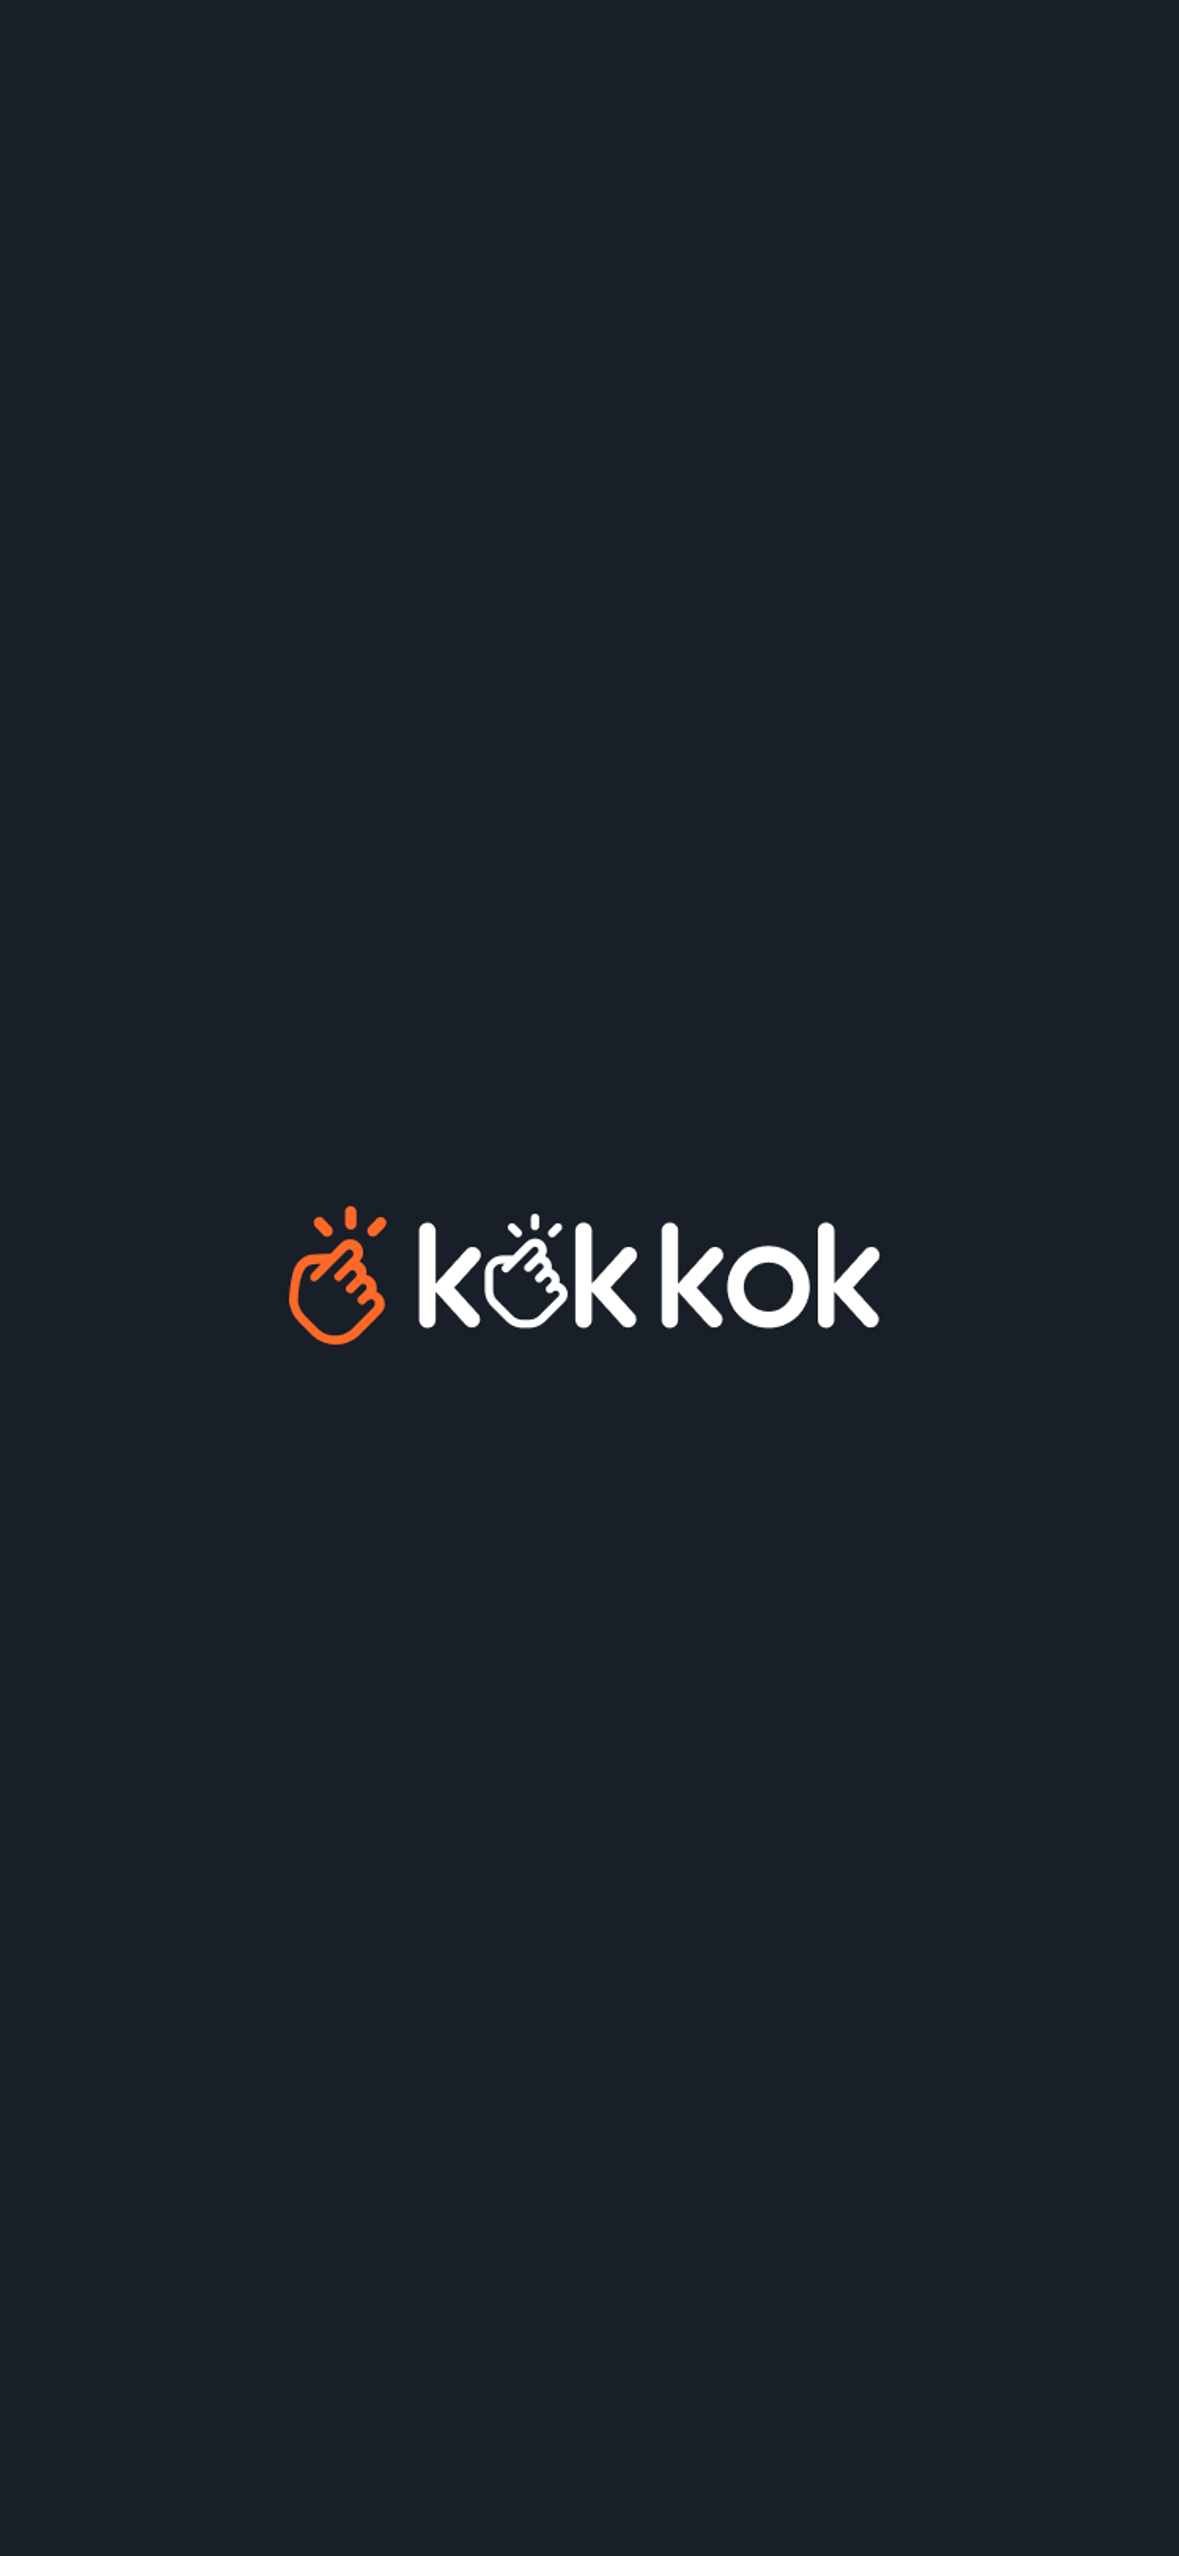
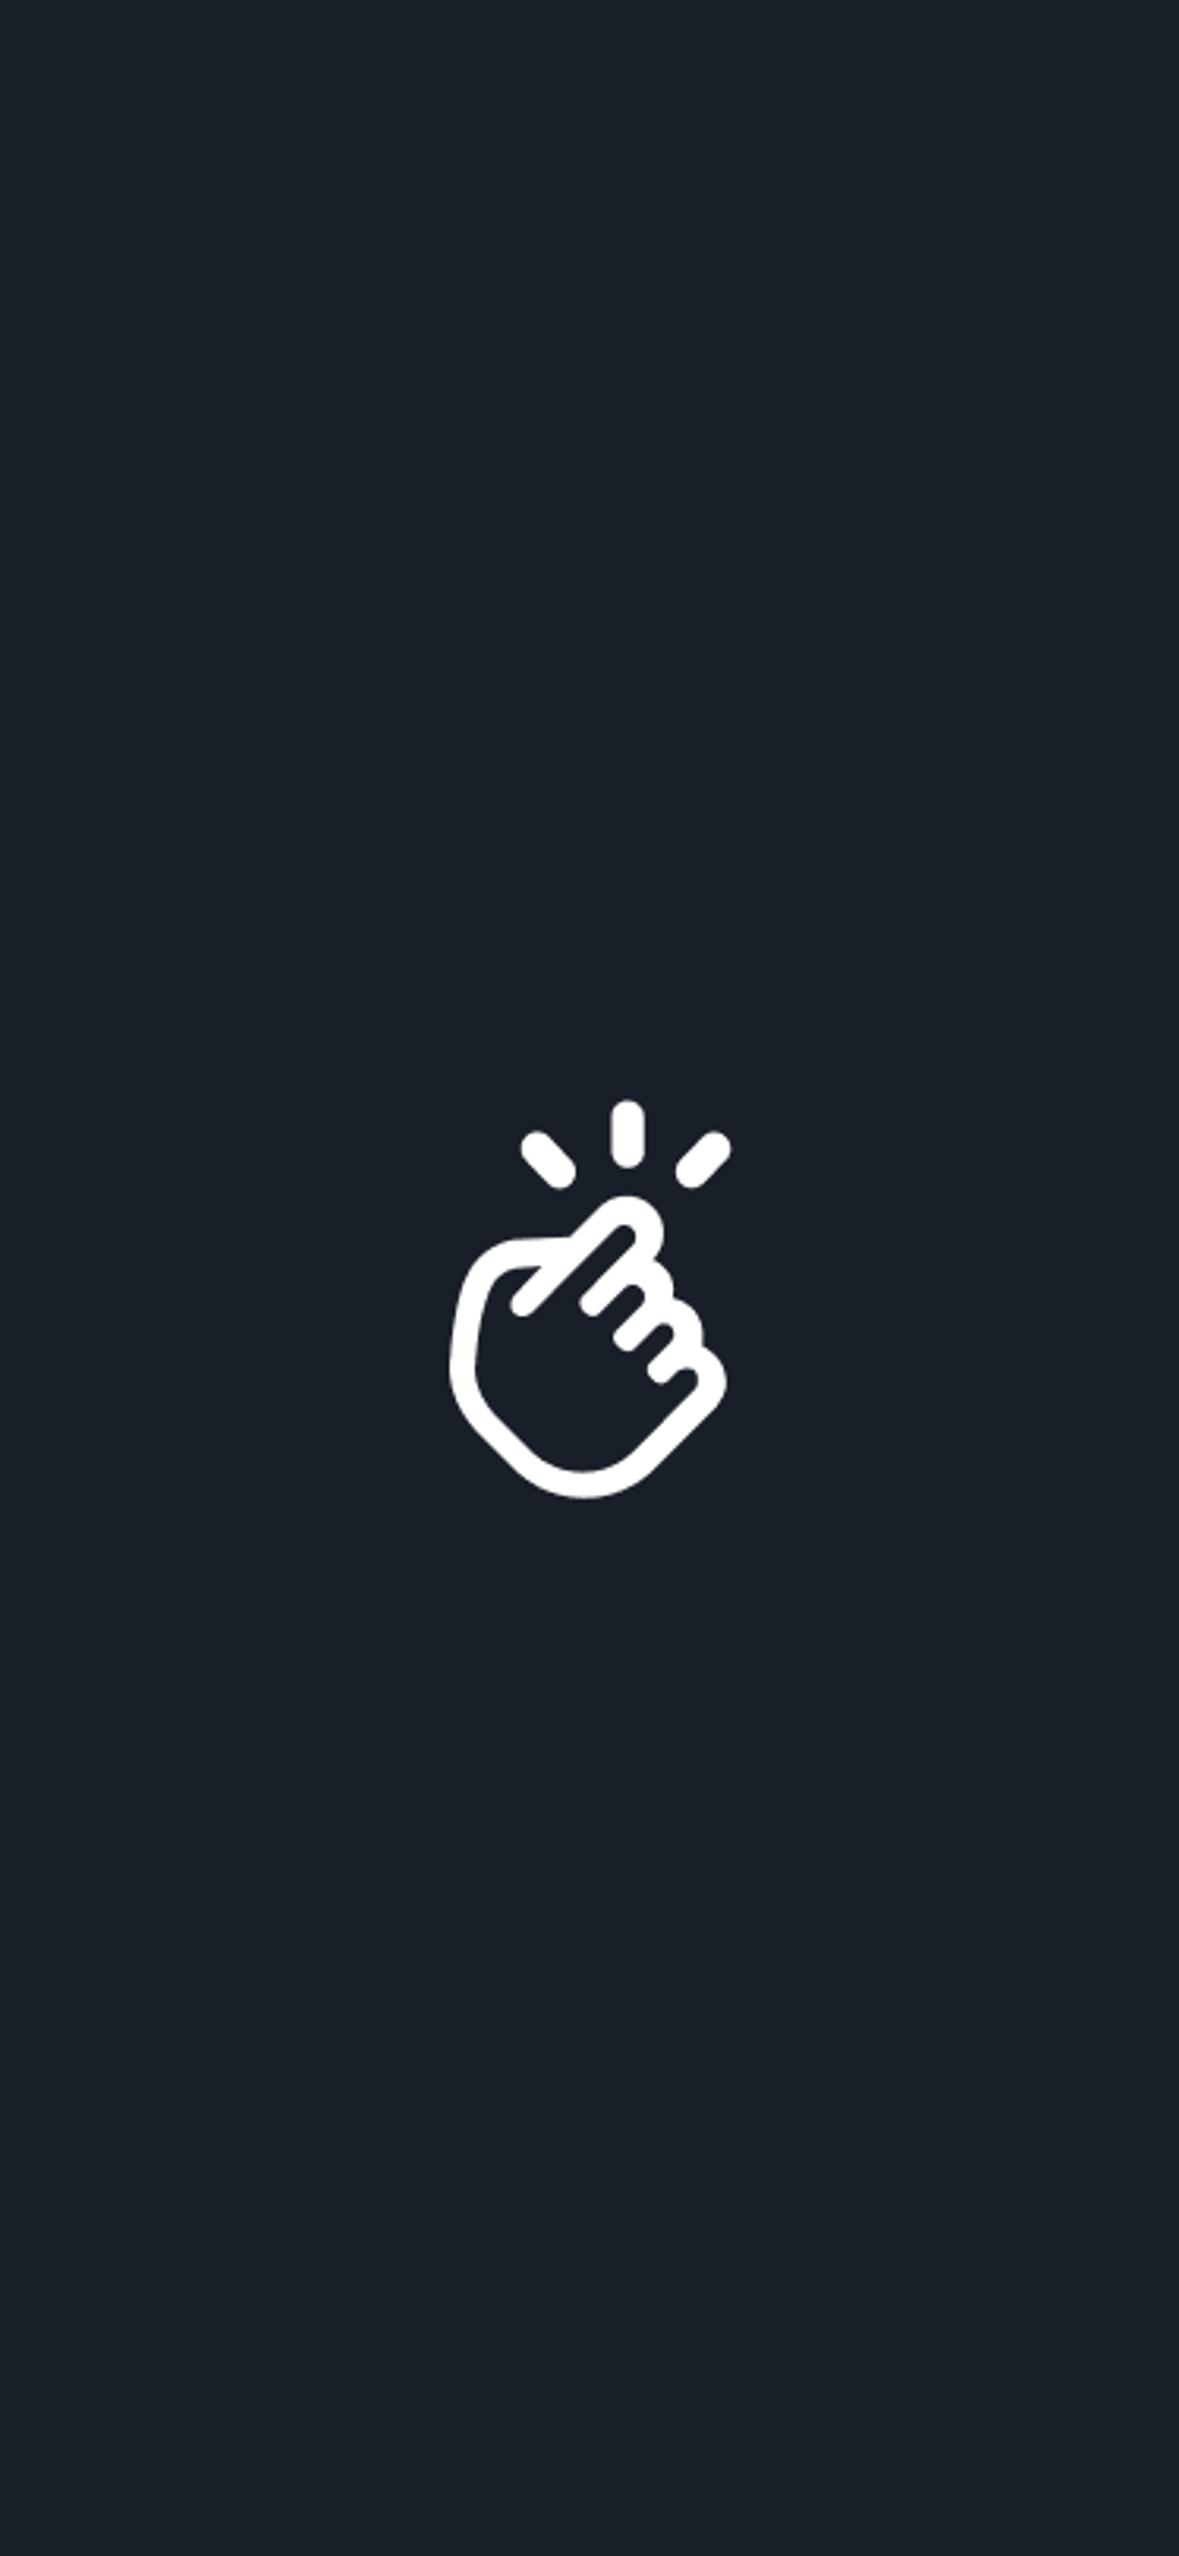
feat: 스플래시 이미지 교체 및 manifest 이미지 교체 테스트

Changed region(s): [[0.2443, 0.4327, 0.7634, 0.5872]]

diff --git a/index.html b/index.html
@@ -4,29 +4,7 @@
     <meta charset="UTF-8" />
     <meta name="viewport" content="width=device-width, initial-scale=1.0" />
     <!-- SPLASH START -->
-    <link rel="apple-touch-startup-image" href="/pwa-assets/iphone7-portrait.png" media="screen and (device-width: 375px) and (device-height: 667px) and (-webkit-device-pixel-ratio: 2) and (orientation: portrait)">
-  <link rel="apple-touch-startup-image" href="/pwa-assets/iphone7-landscape.png" media="screen and (device-width: 667px) and (device-height: 375px) and (-webkit-device-pixel-ratio: 2) and (orientation: landscape)">
-  <link rel="apple-touch-startup-image" href="/pwa-assets/iphone7plus-portrait.png" media="screen and (device-width: 360px) and (device-height: 640px) and (-webkit-device-pixel-ratio: 3) and (orientation: portrait)">
-  <link rel="apple-touch-startup-image" href="/pwa-assets/iphone7plus-landscape.png" media="screen and (device-width: 640px) and (device-height: 360px) and (-webkit-device-pixel-ratio: 3) and (orientation: landscape)">
-  <link rel="apple-touch-startup-image" href="/pwa-assets/iphonex-portrait.png" media="screen and (device-width: 375px) and (device-height: 812px) and (-webkit-device-pixel-ratio: 3) and (orientation: portrait)">
-  <link rel="apple-touch-startup-image" href="/pwa-assets/iphonex-landscape.png" media="screen and (device-width: 812px) and (device-height: 375px) and (-webkit-device-pixel-ratio: 3) and (orientation: landscape)">
-  <link rel="apple-touch-startup-image" href="/pwa-assets/iphonexr-portrait.png" media="screen and (device-width: 414px) and (device-height: 896px) and (-webkit-device-pixel-ratio: 2) and (orientation: portrait)">
-  <link rel="apple-touch-startup-image" href="/pwa-assets/iphonexr-landscape.png" media="screen and (device-width: 896px) and (device-height: 414px) and (-webkit-device-pixel-ratio: 2) and (orientation: landscape)">
-  <link rel="apple-touch-startup-image" href="/pwa-assets/iphonexsmax-portrait.png" media="screen and (device-width: 414px) and (device-height: 896px) and (-webkit-device-pixel-ratio: 3) and (orientation: portrait)">
-  <link rel="apple-touch-startup-image" href="/pwa-assets/iphonexsmax-landscape.png" media="screen and (device-width: 896px) and (device-height: 414px) and (-webkit-device-pixel-ratio: 3) and (orientation: landscape)">
-  <link rel="apple-touch-startup-image" href="/pwa-assets/iphone12-portrait.png" media="screen and (device-width: 390px) and (device-height: 844px) and (-webkit-device-pixel-ratio: 3) and (orientation: portrait)">
-  <link rel="apple-touch-startup-image" href="/pwa-assets/iphone12-landscape.png" media="screen and (device-width: 844px) and (device-height: 390px) and (-webkit-device-pixel-ratio: 3) and (orientation: landscape)">
-  <link rel="apple-touch-startup-image" href="/pwa-assets/iphone12mini-portrait.png" media="screen and (device-width: 360px) and (device-height: 780px) and (-webkit-device-pixel-ratio: 3) and (orientation: portrait)">
-  <link rel="apple-touch-startup-image" href="/pwa-assets/iphone12mini-landscape.png" media="screen and (device-width: 780px) and (device-height: 360px) and (-webkit-device-pixel-ratio: 3) and (orientation: landscape)">
-  <link rel="apple-touch-startup-image" href="/pwa-assets/iphone14pro-portrait.png" media="screen and (device-width: 393px) and (device-height: 852px) and (-webkit-device-pixel-ratio: 3) and (orientation: portrait)">
-  <link rel="apple-touch-startup-image" href="/pwa-assets/iphone14pro-landscape.png" media="screen and (device-width: 852px) and (device-height: 393px) and (-webkit-device-pixel-ratio: 3) and (orientation: landscape)">
-  <link rel="apple-touch-startup-image" href="/pwa-assets/iphone14promax-portrait.png" media="screen and (device-width: 430px) and (device-height: 932px) and (-webkit-device-pixel-ratio: 3) and (orientation: portrait)">
-  <link rel="apple-touch-startup-image" href="/pwa-assets/iphone14promax-landscape.png" media="screen and (device-width: 932px) and (device-height: 430px) and (-webkit-device-pixel-ratio: 3) and (orientation: landscape)">
-  <link rel="apple-touch-startup-image" href="/pwa-assets/iphone15-portrait.png" media="screen and (device-width: 393px) and (device-height: 852px) and (-webkit-device-pixel-ratio: 3) and (orientation: portrait)">
-  <link rel="apple-touch-startup-image" href="/pwa-assets/iphone15-landscape.png" media="screen and (device-width: 852px) and (device-height: 393px) and (-webkit-device-pixel-ratio: 3) and (orientation: landscape)">
-  <link rel="apple-touch-startup-image" href="/pwa-assets/iphone15pro-portrait.png" media="screen and (device-width: 393px) and (device-height: 852px) and (-webkit-device-pixel-ratio: 3) and (orientation: portrait)">
-  <link rel="apple-touch-startup-image" href="/pwa-assets/iphone15pro-landscape.png" media="screen and (device-width: 852px) and (device-height: 393px) and (-webkit-device-pixel-ratio: 3) and (orientation: landscape)">
-    <!-- SPLASH END --> 
+  <!-- SPLASH END --> 
     <link rel="icon" href="/favicon.ico" sizes="48x48">
     <link rel="icon" href="/favicon.svg" sizes="any" type="image/svg+xml">
     <!-- NOTE: iOS pwa 설정 -->
@@ -37,6 +15,28 @@
     <meta name="mobile-web-app-capable" content="yes">
     
     <title>Vite + React + TS</title>
+<link rel="apple-touch-startup-image" href="/pwa-assets/iphone7-portrait.png" media="(device-width: 375px) and (device-height: 667px) and (-webkit-device-pixel-ratio: 2) and (orientation: portrait)">
+<link rel="apple-touch-startup-image" href="/pwa-assets/iphone7-landscape.png" media="(device-width: 667px) and (device-height: 375px) and (-webkit-device-pixel-ratio: 2) and (orientation: landscape)">
+<link rel="apple-touch-startup-image" href="/pwa-assets/iphone7plus-portrait.png" media="(device-width: 360px) and (device-height: 640px) and (-webkit-device-pixel-ratio: 3) and (orientation: portrait)">
+<link rel="apple-touch-startup-image" href="/pwa-assets/iphone7plus-landscape.png" media="(device-width: 640px) and (device-height: 360px) and (-webkit-device-pixel-ratio: 3) and (orientation: landscape)">
+<link rel="apple-touch-startup-image" href="/pwa-assets/iphonex-portrait.png" media="(device-width: 375px) and (device-height: 812px) and (-webkit-device-pixel-ratio: 3) and (orientation: portrait)">
+<link rel="apple-touch-startup-image" href="/pwa-assets/iphonex-landscape.png" media="(device-width: 812px) and (device-height: 375px) and (-webkit-device-pixel-ratio: 3) and (orientation: landscape)">
+<link rel="apple-touch-startup-image" href="/pwa-assets/iphonexr-portrait.png" media="(device-width: 414px) and (device-height: 896px) and (-webkit-device-pixel-ratio: 2) and (orientation: portrait)">
+<link rel="apple-touch-startup-image" href="/pwa-assets/iphonexr-landscape.png" media="(device-width: 896px) and (device-height: 414px) and (-webkit-device-pixel-ratio: 2) and (orientation: landscape)">
+<link rel="apple-touch-startup-image" href="/pwa-assets/iphonexsmax-portrait.png" media="(device-width: 414px) and (device-height: 896px) and (-webkit-device-pixel-ratio: 3) and (orientation: portrait)">
+<link rel="apple-touch-startup-image" href="/pwa-assets/iphonexsmax-landscape.png" media="(device-width: 896px) and (device-height: 414px) and (-webkit-device-pixel-ratio: 3) and (orientation: landscape)">
+<link rel="apple-touch-startup-image" href="/pwa-assets/iphone12-portrait.png" media="(device-width: 390px) and (device-height: 844px) and (-webkit-device-pixel-ratio: 3) and (orientation: portrait)">
+<link rel="apple-touch-startup-image" href="/pwa-assets/iphone12-landscape.png" media="(device-width: 844px) and (device-height: 390px) and (-webkit-device-pixel-ratio: 3) and (orientation: landscape)">
+<link rel="apple-touch-startup-image" href="/pwa-assets/iphone12mini-portrait.png" media="(device-width: 360px) and (device-height: 780px) and (-webkit-device-pixel-ratio: 3) and (orientation: portrait)">
+<link rel="apple-touch-startup-image" href="/pwa-assets/iphone12mini-landscape.png" media="(device-width: 780px) and (device-height: 360px) and (-webkit-device-pixel-ratio: 3) and (orientation: landscape)">
+<link rel="apple-touch-startup-image" href="/pwa-assets/iphone14pro-portrait.png" media="(device-width: 393px) and (device-height: 852px) and (-webkit-device-pixel-ratio: 3) and (orientation: portrait)">
+<link rel="apple-touch-startup-image" href="/pwa-assets/iphone14pro-landscape.png" media="(device-width: 852px) and (device-height: 393px) and (-webkit-device-pixel-ratio: 3) and (orientation: landscape)">
+<link rel="apple-touch-startup-image" href="/pwa-assets/iphone14promax-portrait.png" media="(device-width: 430px) and (device-height: 932px) and (-webkit-device-pixel-ratio: 3) and (orientation: portrait)">
+<link rel="apple-touch-startup-image" href="/pwa-assets/iphone14promax-landscape.png" media="(device-width: 932px) and (device-height: 430px) and (-webkit-device-pixel-ratio: 3) and (orientation: landscape)">
+<link rel="apple-touch-startup-image" href="/pwa-assets/iphone15-portrait.png" media="(device-width: 393px) and (device-height: 852px) and (-webkit-device-pixel-ratio: 3) and (orientation: portrait)">
+<link rel="apple-touch-startup-image" href="/pwa-assets/iphone15-landscape.png" media="(device-width: 852px) and (device-height: 393px) and (-webkit-device-pixel-ratio: 3) and (orientation: landscape)">
+<link rel="apple-touch-startup-image" href="/pwa-assets/iphone15pro-portrait.png" media="(device-width: 393px) and (device-height: 852px) and (-webkit-device-pixel-ratio: 3) and (orientation: portrait)">
+<link rel="apple-touch-startup-image" href="/pwa-assets/iphone15pro-landscape.png" media="(device-width: 852px) and (device-height: 393px) and (-webkit-device-pixel-ratio: 3) and (orientation: landscape)">
 </head>
   <body>
     <div id="root"></div>

diff --git a/pwa-assets.config.ts b/pwa-assets.config.ts
@@ -6,9 +6,10 @@ export const minimal2023Preset: Preset = {
     favicons: [[48, 'favicon.ico']]
   },
   maskable: {
-    sizes: [512]
+    sizes: [512],
+    resizeOptions:{background: 'transparent',fit:'contain'}
   },
   apple: {
-    sizes: [180]
+    sizes: [180],resizeOptions:{background: 'transparent',fit:'contain'}
   }
 }

diff --git a/vite.config.js b/vite.config.js
@@ -33,7 +33,7 @@ export default defineConfig({
             purpose: 'any'
           },
           {
-            src: 'pwa-512x512.png',
+            src: 'maskable-icon-512x512.png',
             sizes: '512x512',
             type: 'image/png',
             purpose: 'maskable'
